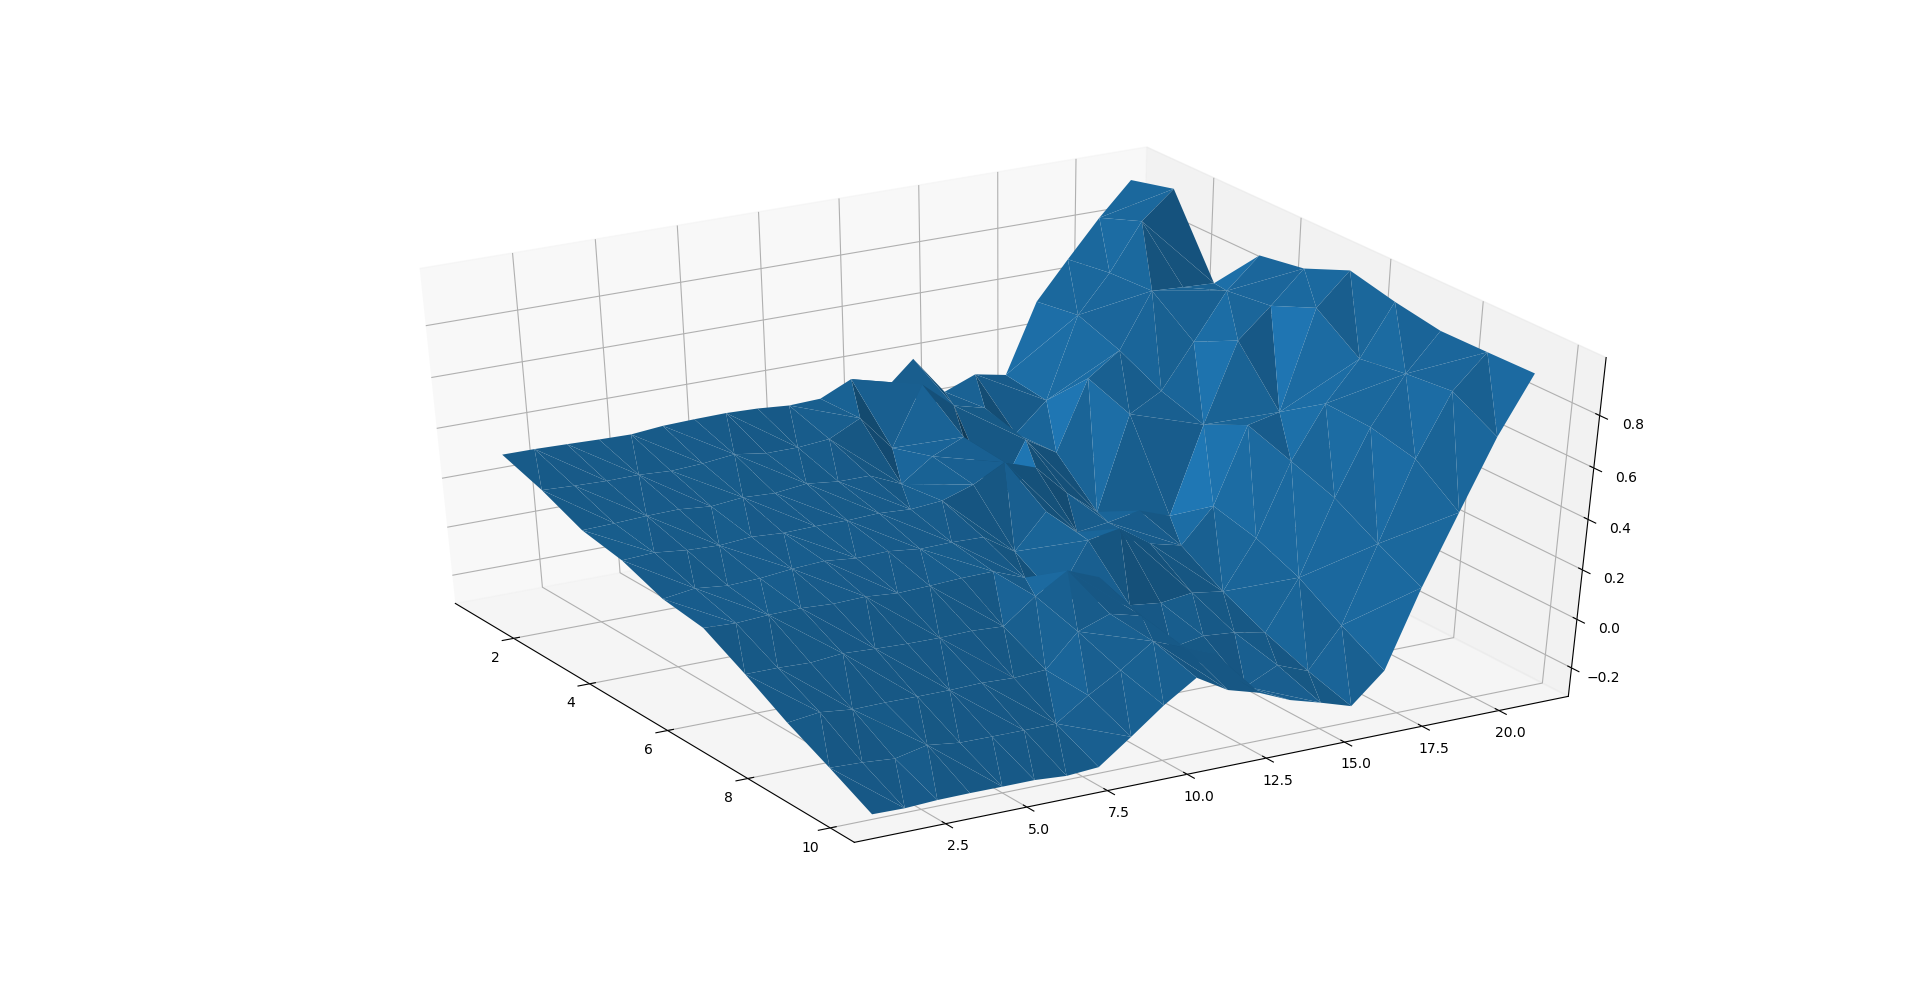
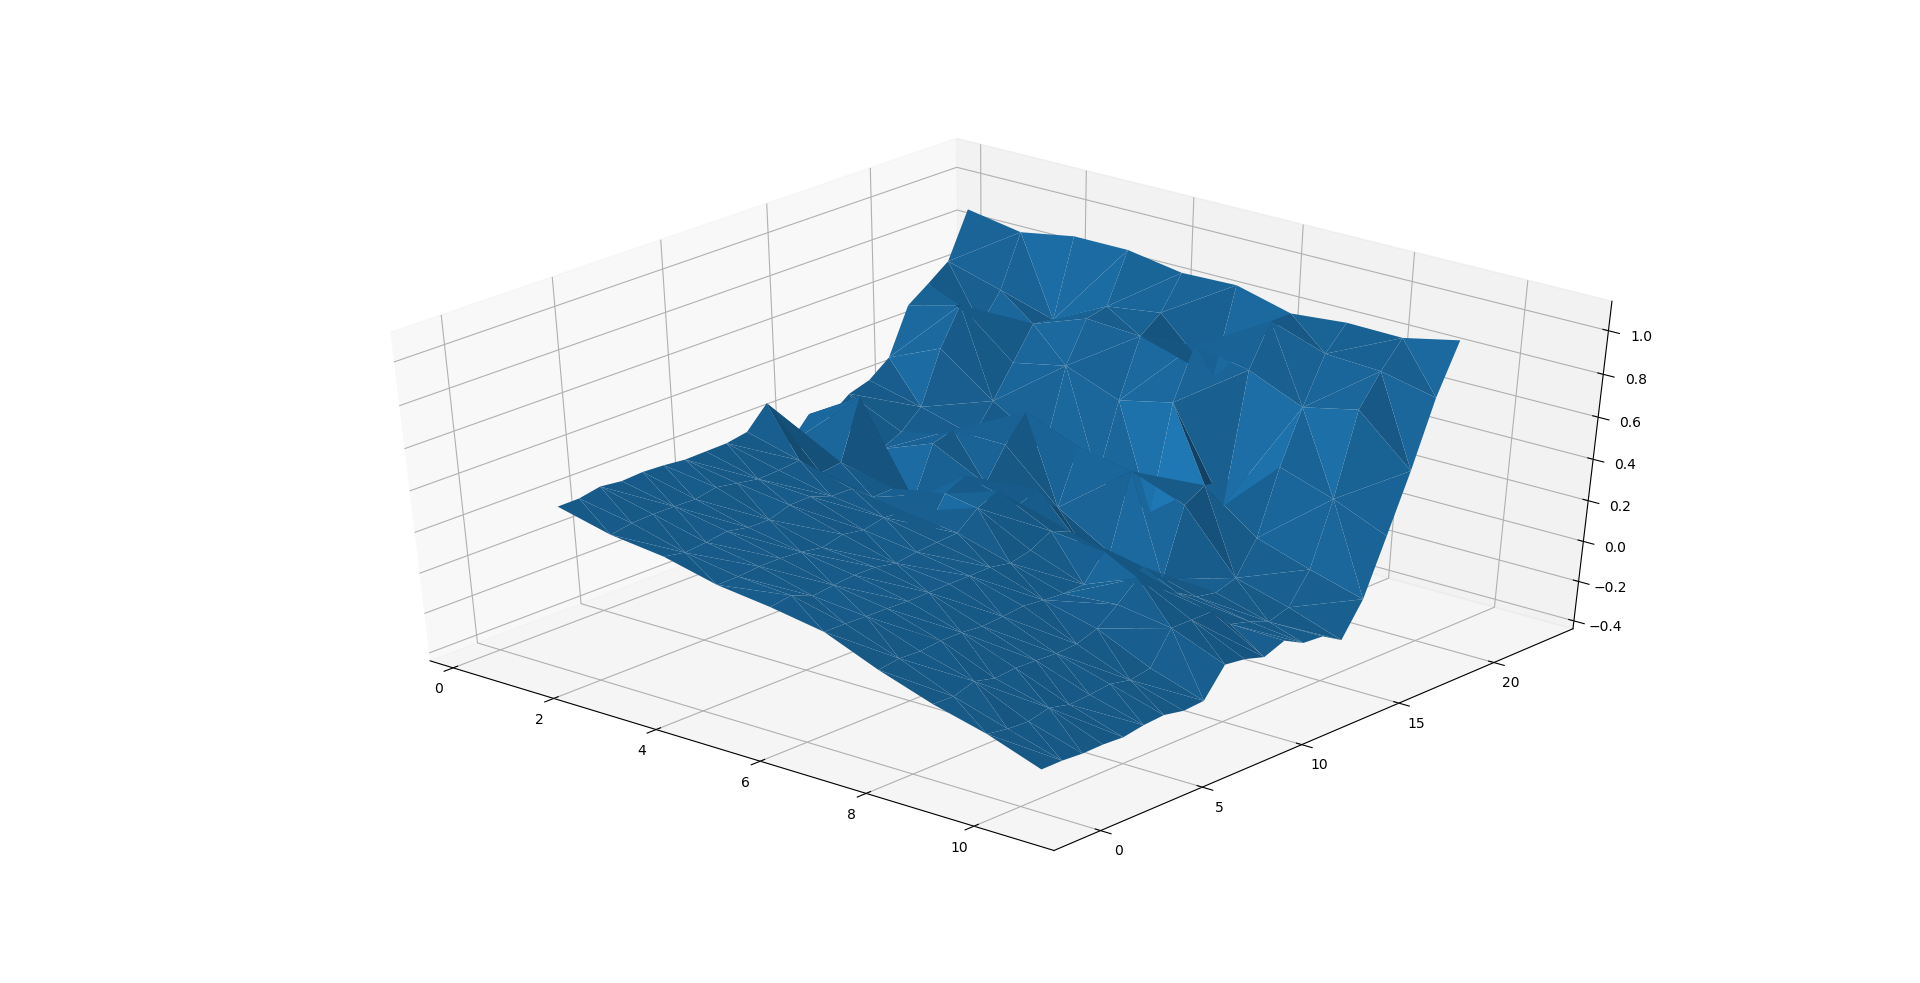
Sarsa(lambda) and plots

diff --git a/easy21.py b/easy21.py
@@ -1,10 +1,17 @@
 import random
+import numpy as np
+import matplotlib.pyplot as plt
+import pickle
+from mpl_toolkits.mplot3d import Axes3D
 
 N0 = 100
+gamma = 1 # No discounting
 episode_over = False
+result_testing = True
 Q = {}
 N = {}
 V = []
+E = {}
 
 def initial_state():
     return (random.randint(1,10), random.randint(1,10))
@@ -73,17 +80,13 @@ def egreedy(s):
 def greedy(s):
     s0 = (s,0)
     s1 = (s,1)
-    Q0 = Q[s0] if (s0 in Q) else 0
-    Q1 = Q[s1] if (s1 in Q) else 0
+    Q0 = Q.get(s0, 0)
+    Q1 = Q.get(s1, 0)
     if(Q0 > Q1):
         a = 0
     else:
         a = 1
     return a
-
-def update_Q(sa, G):
-    N[sa] = N.get(sa, 0) + 1
-    Q[sa] = Q.get(sa, 0) + (G - Q.get(sa, 0))/N[sa]
 
 winper = []
 lossper = []
@@ -92,9 +95,8 @@ epinum = []
 
 def mc_train(episode = 10000):
     global episode_over
-    print("Start training")
+    print("Start MC training")
     for i in range(1, episode+1):
-        #print("episode ", i)
         s = initial_state()
         steps = []
         G = 0
@@ -105,13 +107,14 @@ def mc_train(episode = 10000):
             s, r = step(s,a)
             G += r
         for sa in steps:
-            update_Q(sa, G)
-        if( ( (i<10000) and ((i % 100)== 0)) or (i % 10000 == 0)):
+            N[sa] = N.get(sa, 0) + 1
+            Q[sa] = Q.get(sa, 0) + (G - Q.get(sa, 0))/N[sa]
+        if( (result_testing == True) and (( (i<10000) and ((i % 1000)== 0)) or (i % 25000 == 0)) ):
             epinum.append(i)
-            test()
+            result_test()
     print("Training is over")
 
-def test(t_episodes=100000):
+def result_test(t_episodes=100000):
     global episode_over
     win = loss = draw = 0
     for i in range(1, t_episodes+1):
@@ -131,26 +134,81 @@ def test(t_episodes=100000):
     winper.append(win/total)
     drawper.append(draw/total)
     lossper.append(loss/total)
-    
-mc_train(3000000)
 
+
+mc_train(1000000)
+# Calculate V = max (Q,A)
 for i in range(1, 11):
     for j in range(1, 22):
         V.append( (i, j, max( Q.get(((i, j), 0), 0), Q.get(((i, j), 1), 0)) ) )
 
+'''
+with open('mc_result/mc_train_result', 'rb') as f:
+    Q, N, V = pickle.load(f)
+'''
 
-# Dump the result of training and testing
-import os
-import pickle
-with open('mc_result/test_result', 'wb') as f1:
-    pickle.dump([epinum, lossper, drawper, winper], f1)
-with open('mc_result/train_result', 'wb') as f2:
-    pickle.dump([Q,N,V], f2)
+# Dump the result of training and testing if needed
+if( result_testing == True):
+    with open('mc_result/mc_test_result', 'wb') as f1:
+        pickle.dump([epinum, lossper, drawper, winper], f1)
+    with open('mc_result/mc_train_result', 'wb') as f2:
+        pickle.dump([Q,N,V], f2)
 
+Q_mc = dict(Q)
+sqerrors = []
+lambs = []
+
+def cal_sqr_error():
+    sqerror = 0
+    for i in Q_mc:
+        sqerror += (Q.get(i, 0) - Q_mc[i])**2
+    return sqerror/len(Q_mc)
+
+def sarsa(l = 0, episode = 100000, plote = False):
+    global episode_over, Q, N, E
+    epi = []
+    epierror = []
+    Q = {}
+    N = {}
+    print("Start Sarsa trianing. Lambda = ", round(l, 1), ' ... ')
+    for i in range(1, episode+1):
+        E = {}
+        s = initial_state()
+        a = egreedy(s)
+        episode_over = False
+        while(episode_over == False):
+            _s, r = step(s,a)
+            _a = egreedy(_s)
+            error = r + gamma * Q.get((_s,_a), 0) - Q.get((s,a), 0)
+            E[(s,a)] = E.get((s,a), 0) + 1
+            N[(s,a)] = N.get((s,a), 0) + 1
+            for j in E:
+                alpha = 1/N[j]
+                Q[j] = Q.get(j, 0) + alpha * error * E[j]
+                E[j] = E[j] * gamma * l
+            s = _s
+            a = _a
+        if(plote == True and i % 1000 == 0):
+            epi.append(i)
+            epierror.append(cal_sqr_error())
+    print("Training is over")
+    if(plote == True):
+        plt.plot(epi, epierror, "bo-")
+        plt.grid(True, linestyle = '--')
+        plt.show()
+        plt.close()
+
+for i in range(0, 11):
+    lamb = 0.1 * i
+    lambs.append(lamb)
+    sarsa(l = lamb, plote = ((lamb == 0) or (lamb == 1)) )
+    sqerrors.append(cal_sqr_error())
+
+
+
+print("lambdas: ", [round(i, 2) for i in lambs])
+print("Mean square errors: ", [round(i, 4) for i in sqerrors])
 # Plot value function
-import numpy as np
-import matplotlib.pyplot as plt
-from mpl_toolkits.mplot3d import Axes3D
 v = np.array(list(set(V)))
 x = v[:, 0]
 y = v[:, 1]
@@ -162,6 +220,15 @@ plt.show()
 plt.clf()
 
 # Plot the result of testing
-plt.plot(epinum,winper, "bo-", epinum, lossper, "ro-")
+if(result_testing == True):
+    plt.plot(epinum,winper, "bo-", epinum, lossper, "ro-")
+    plt.grid(True, linestyle = "--")
+    plt.show()
+    plt.clf()
+
+# Plot mean square errors
+plt.plot(lambs, sqerrors, "bo-")
 plt.grid(True, linestyle = "--")
 plt.show()
+plt.clf()
+
